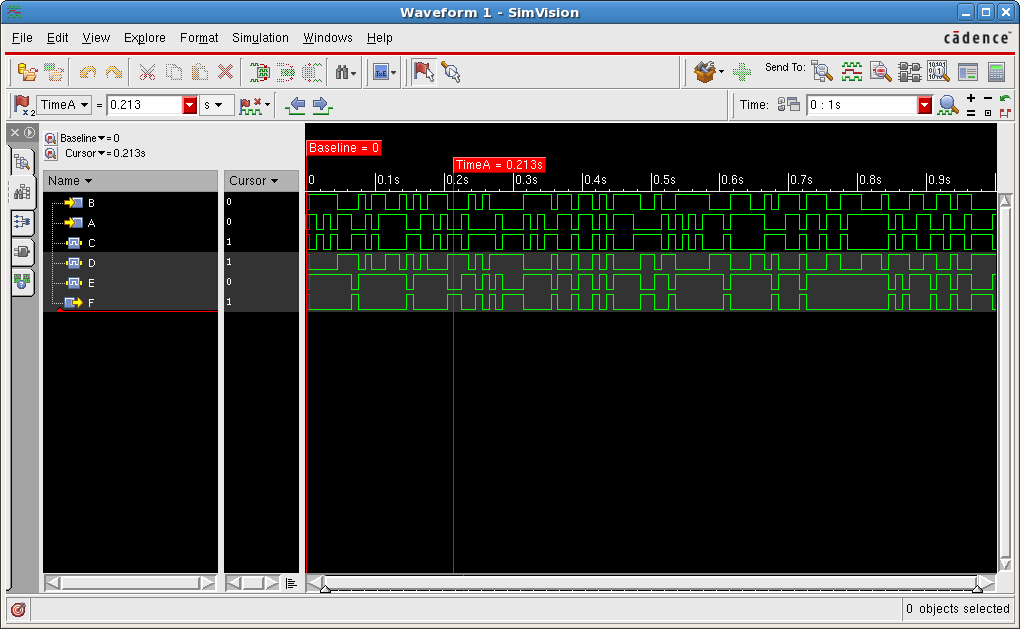
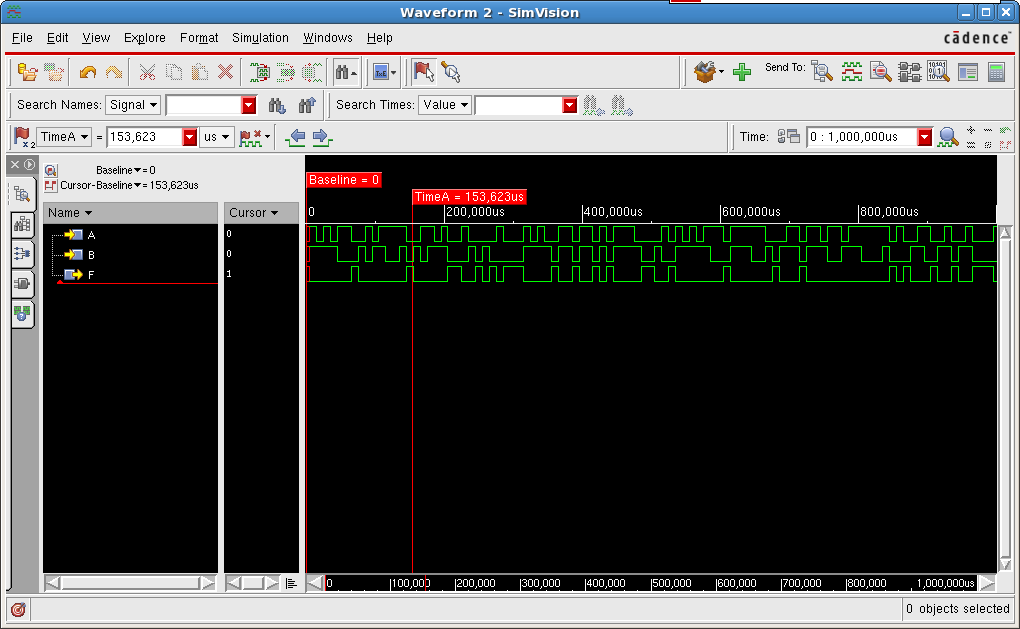
Updated image to be only of A, B and F.

Changed region(s): [[0.0, 0.151, 1.0, 0.5437], [0.3039, 0.9062, 0.9725, 0.9364], [0.6686, 0.0, 0.9725, 0.0302]]

diff --git a/README.md b/README.md
@@ -9,6 +9,8 @@ Created by unsignedzero and started on 01-15-2014
 
 # Version/Changelog #
 
+* Updated image to be only of A, B and F.
+
 ## 0.2.0.0 [01-23-2014] #
 * Lab 2 completed.
 * Lab 2 files are nor\_with\_nands.
